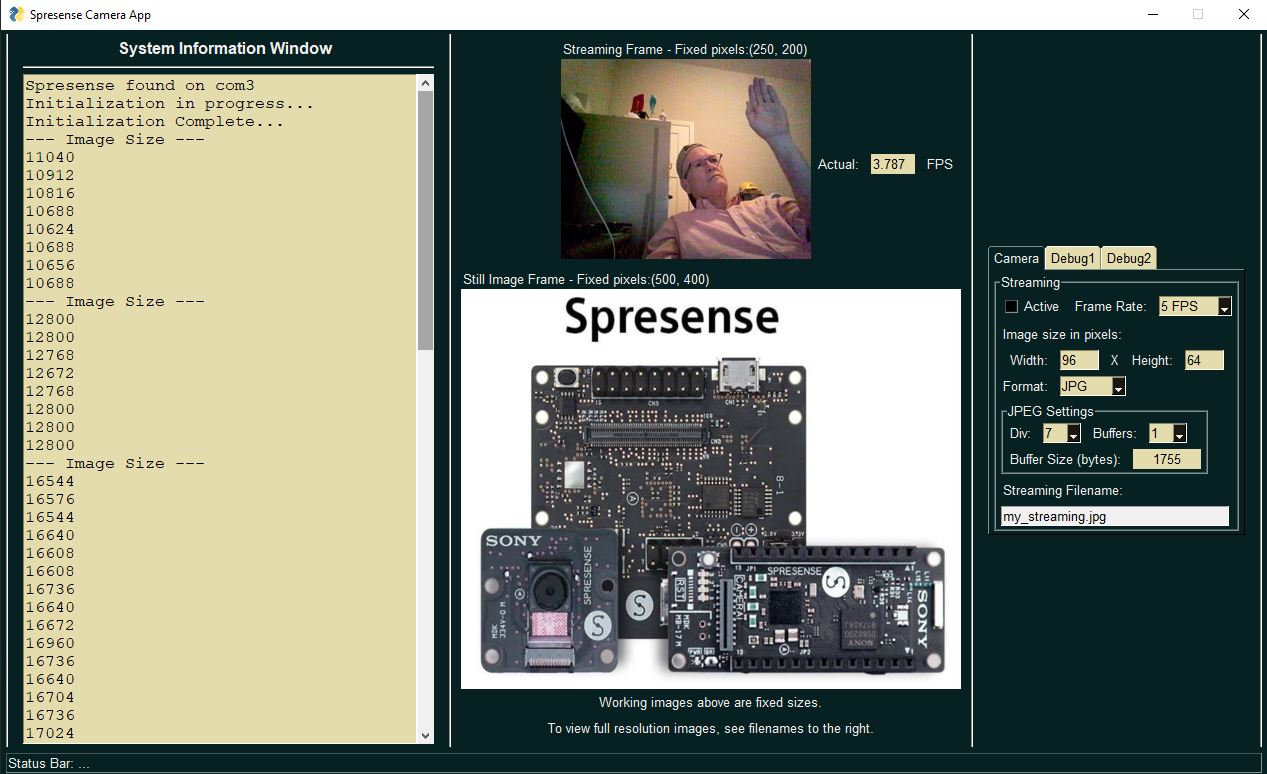
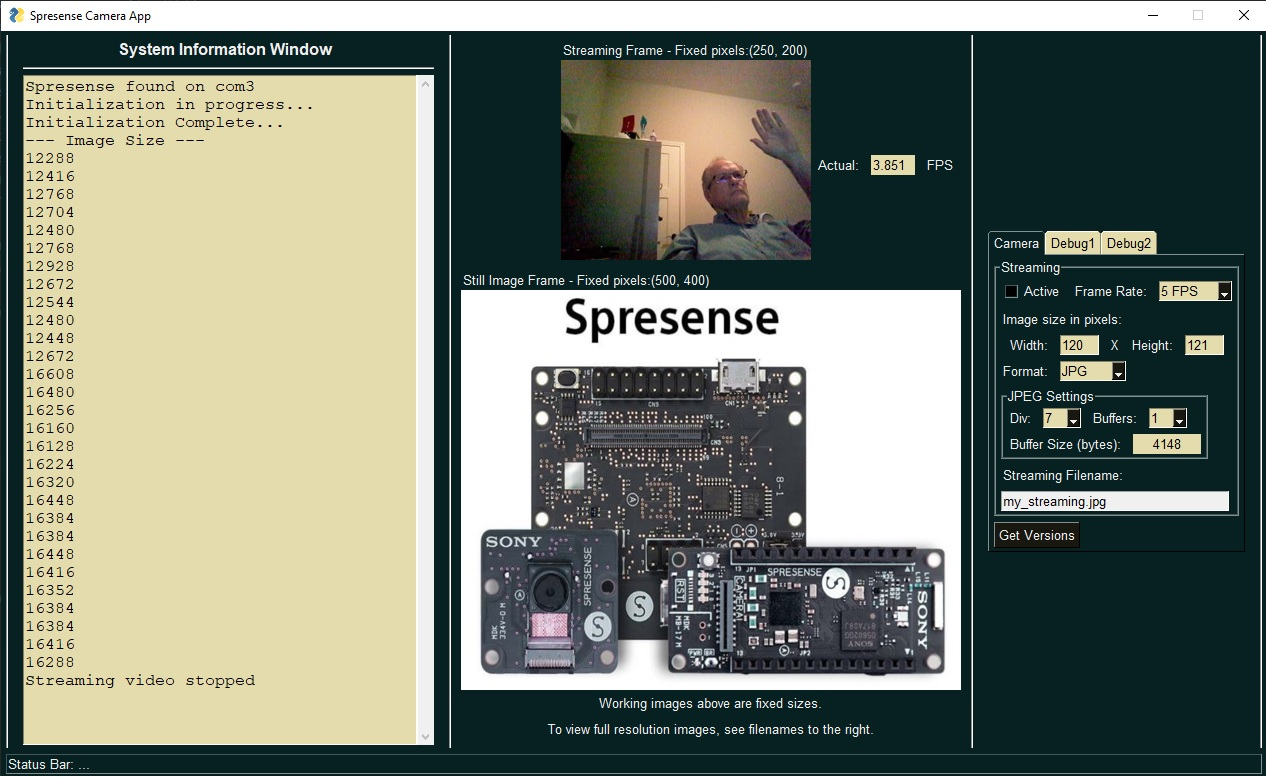
Video streaming working using threading

Changed region(s): [[0.0, 0.0, 1.0, 1.0], [0.9242, 0.0, 0.955, 0.031]]

diff --git a/Python/SpresenseApp.py b/Python/SpresenseApp.py
@@ -123,12 +123,12 @@ def calculate_jpeg_buffer_size(which_buffer):
 # -------------------------------------------------
 # Spresense streaming image mode
 # -------------------------------------------------
-def camera_steaming_mode(my_window, ):
+def camera_streaming_mode(window):
     send_spresense_command('cam_stream_start\n', 5, 'enabled')
     spresense_camera_data = 0
 
     mprint('--- Image Size ---')
-    while int(values['-STREAMING_ACTIVE-']):  # The streaming active check_box
+    while values['-STREAMING_CHECKBOX-']:  # The streaming active check_box
         start = time.time()  # start time for FPS calculation
         image_size = int(ser.readline())  # get the size (in bytes) of the image
         mprint(image_size)
@@ -140,18 +140,14 @@ def camera_steaming_mode(my_window, ):
             im_pil = ImageTk.getimage(image_tk)  # convert it to PIL image so we can resize it
             resized_pil = im_pil.resize(streaming_ui_image_frame_size)  # resize it to fit streaming frame size
             image = ImageTk.PhotoImage(image=resized_pil)  # convert it back to TK_image
-
-            my_window['-STREAMING_IMAGE-'].update(data=image)
+            window['-STREAMING_IMAGE-'].update(data=image)
             endt = time.time()
-
             fpsec = 1.0 / (endt - start)
-            my_window['-FPS-'].update('%.3f' % fpsec)
+            window['-FPS-'].update('%.3f' % fpsec)
+        print('CheckBox:', values['-STREAMING_CHECKBOX-'])
 
-    send_spresense_command('cam_stream_stop\n', 0, 'silent')  # tell the Spresense to stop streaming
-    ser.read_all()  # use this to flush the PC comm port buffer
-    f = open(streaming_filename, 'wb')  # save this last frame into jpg streaming file
-    f.write(spresense_camera_data)
-    f.close()
+    window.write_event_value('-THREAD-', 'done')
+    print('CheckBox:', values['-STREAMING_CHECKBOX-'])
 
 
 # -------------------------------------------------
@@ -168,28 +164,16 @@ def send_spresense_command(command, response_lines, print_mode):
 
 
 def handle_streaming_active_checkbox():
-    global threading_not_active
-    # time.sleep(1)  # slow down the user, prevent clicking checkbox too fast here...
-    if values['-STREAMING_ACTIVE-']:
+    time.sleep(1)  # slow down the user, prevent clicking checkbox too fast here...
+    if values['-STREAMING_CHECKBOX-']:  # The checkbox is active, CHECKED
         # window['-STREAMING_FPS-'].update(disabled=True)
         # window['-STREAMING_WIDTH-'].update(disabled=True, background_color='gray')
         # window['-STREAMING_HEIGHT-'].update(disabled=True)
         # window['-STREAMING_PIX_FMT-'].update(disabled=True)
         # window['-STREAMING_JPEG_SIZE_DIV-'].update(disabled=True)
         # window['-STREAMING_JPEG_BUFFERS_COUNT-'].update(disabled=True)
-
-        # ONLY DO THIS ONCE...
-        if threading_not_active:
-            threading.Thread(target=camera_steaming_mode, args=(window, ), daemon=True).start()
-            threading_not_active = False
-    else:
-        send_spresense_command('cam_stream_stop\n', 0, 'silent')  # tell the Spresense to stop streaming
-        # window['-STREAMING_FPS-'].update(disabled=False)
-        # window['-STREAMING_WIDTH-'].update(disabled=False, background_color=my_bg_color)
-        # window['-STREAMING_HEIGHT-'].update(disabled=False)
-        # window['-STREAMING_PIX_FMT-'].update(disabled=False)
-        # window['-STREAMING_JPEG_SIZE_DIV-'].update(disabled=False)
-        # window['-STREAMING_JPEG_BUFFERS_COUNT-'].update(disabled=False)
+        threading.Thread(target=camera_steaming_mode, args=(window, ), daemon=True).start()
+        threading_active = True
 
 
 # -------------------------------------------------
@@ -204,14 +188,13 @@ my_bg_color = sg.theme_input_background_color()
 bytes_per_pixel = 2
 streaming_ui_image_frame_size = (250, 200)
 still_ui_image_frame_size = (500, 400)
-threading_not_active = True
 
 current_directory = os.getcwd() + '\\'
 python_settings_filename = 'Spresense.json'
 sg.user_settings_filename(filename=current_directory + python_settings_filename)  # Python settings file
 
 if not sg.user_settings_file_exists():
-    sg.user_settings_set_entry('-STREAMING_ACTIVE-', False)
+    sg.user_settings_set_entry('-STREAMING_CHECKBOX-', False)
     sg.user_settings_set_entry('-STREAMING_FPS-', '5 FPS')
     sg.user_settings_set_entry('-STREAMING_WIDTH-', 96)
     sg.user_settings_set_entry('-STREAMING_HEIGHT-', 64)
@@ -219,7 +202,7 @@ if not sg.user_settings_file_exists():
     sg.user_settings_set_entry('-STREAMING_JPEG_BUFFERS_COUNT-', 1)
     sg.user_settings_set_entry('-STREAMING_FILENAME-', 'my_streaming.jpg')  # Streaming image file name
 
-active_checkbox = sg.user_settings_get_entry('-STREAMING_ACTIVE-')
+active_checkbox = sg.user_settings_get_entry('-STREAMING_CHECKBOX-')
 frame_rate = sg.user_settings_get_entry('-STREAMING_FPS-')
 streaming_width = sg.user_settings_get_entry('-STREAMING_WIDTH-')
 streaming_height = sg.user_settings_get_entry('-STREAMING_HEIGHT-')
@@ -231,7 +214,7 @@ jpeg_buffer_size = int((streaming_width * streaming_height * bytes_per_pixel) / 
 
 my_tab1_layout = [
     [sg.Frame('Streaming', [
-        [sg.Checkbox('Active', default=active_checkbox, enable_events=True, key='-STREAMING_ACTIVE-'),
+        [sg.Checkbox('Active', default=active_checkbox, enable_events=True, key='-STREAMING_CHECKBOX-'),
          sg.Text('Frame Rate:'),
          sg.Combo(['5 FPS', '6 FPS', '7.5 FPS', '15 FPS', '30 FPS', '60 FPS', '120 FPS'], size=(8, 1),
                   default_value=frame_rate, readonly=True, enable_events=True, key='-STREAMING_FPS-')],
@@ -253,7 +236,7 @@ my_tab1_layout = [
                                                    key='-STREAMING_JPEG_BUFF_SIZE-')]])],
         [sg.Text('Streaming Filename:')], [sg.Input(streaming_filename, size=(32, 1), disabled=True,
                                                     key='-STREAMING_FILENAME-')]])],
-    [sg.Button('Get Versions', key='-VERSIONS-')],
+    [sg.Button('Get Versions', key='-VERSIONS-')]
 ]
 
 
@@ -300,7 +283,8 @@ layout = [
     [sg.StatusBar('Status Bar: ...', size=80, key='-STAT_BAR-')]
 ]
 
-window = sg.Window('Spresense Camera App', layout, margins=(0, 0), finalize=True, titlebar_font='bold')
+window = sg.Window('Spresense Camera App', layout, margins=(0, 0), finalize=True, titlebar_font='bold',
+                   enable_close_attempted_event=True)
 show_the_image('streaming', 'Spresense_Splash3.JPG', resize=True)  # Show the start up image
 show_the_image('still', 'Spresense_Splash3.JPG', resize=True)  # Show the start up image
 spresense_not_found = connect_to_spresense()
@@ -308,17 +292,21 @@ spresense_not_found = connect_to_spresense()
 window['-STREAMING_WIDTH-'].bind('<FocusIn>', 'GOT_FOCUS')   # Used to provide an event when input field gets focus
 window['-STREAMING_HEIGHT-'].bind('<FocusIn>', 'GOT_FOCUS')  # Used to provide an event when input field gets focus
 
+
 while True:  # The Event Loop
     event, values = window.read()
     print('event:', event)        # This print, for debug only
     # print('values:', values)    # This print, for debug only
+    # if not streaming_video_thread_active:  # only do this once
+    #    threading.Thread(target=camera_steaming_mode, args=(window,), daemon=True).start()
+    #    streaming_video_thread_active = True
     if spresense_not_found:
         print('Spresense Comm Port not found')
         window.close()
         break
-    if event == sg.WIN_CLOSED or event == 'Exit':
-        window['-STREAMING_ACTIVE-'].update(False)
-        time.sleep(2)
+    if event == sg.WINDOW_CLOSE_ATTEMPTED_EVENT or event == 'Exit':
+        window['-STREAMING_CHECKBOX-'].update(False)
+        # time.sleep(2)
         send_spresense_command('cam_stream_stop\n', 0, 'silent')  # tell the Spresense to stop streaming 2nd
         ser.close()
         break
@@ -335,8 +323,15 @@ while True:  # The Event Loop
     elif event == '-STREAMING_JPEG_SIZE_DIV-':
         streaming_jpgbufsize_div = values['-STREAMING_JPEG_SIZE_DIV-']
         calculate_jpeg_buffer_size('streaming')
-    elif event == '-STREAMING_ACTIVE-':
-        handle_streaming_active_checkbox()
+    elif event == '-STREAMING_CHECKBOX-':
+        print('A:', values['-STREAMING_CHECKBOX-'])
+        print('B:', int(values['-STREAMING_CHECKBOX-']))
+        if values['-STREAMING_CHECKBOX-']:
+            threading.Thread(target=camera_streaming_mode, args=(window,), daemon=True).start()
+    elif event == '-THREAD-':
+        mprint('Streaming video stopped')
+        time.sleep(0.100)
+        send_spresense_command('cam_stream_stop\n', 0, 'silent')  # tell the Spresense to stop streaming 2nd
     elif event == '-VERSIONS-':
         mprint('---------------------------------------')
         mprint(sg.get_versions())
